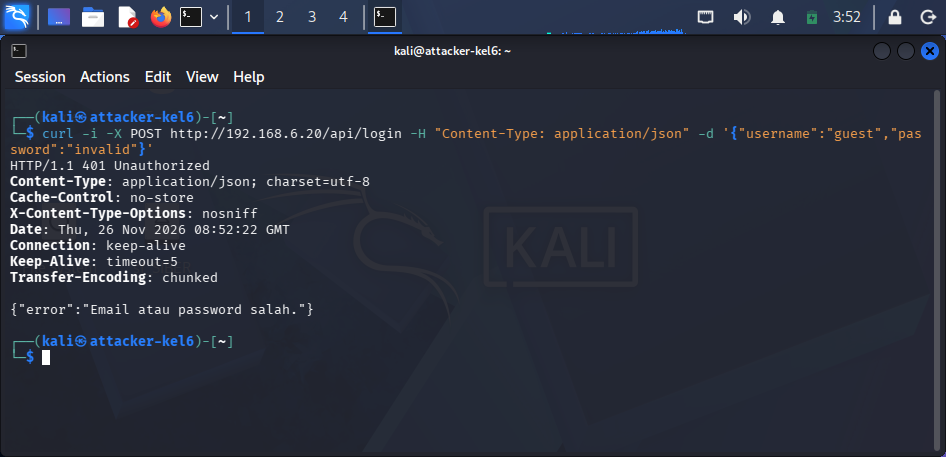
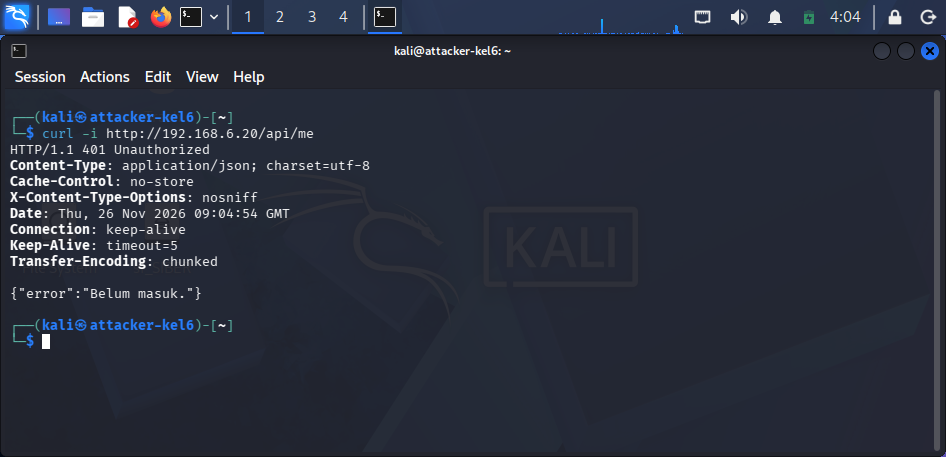
fix(docs): cleanly decouple SSH authentication (ATK-04) from web access & login (ATK-02 & ATK-03)

diff --git a/docs/redteam/attack-plan.md b/docs/redteam/attack-plan.md
@@ -53,7 +53,7 @@ Pengujian dilakukan dengan pendekatan **Red Team vs Blue Team** untuk mengidenti
 | **ATK-01** | Port Scanning | Ubuntu Server | Nmap | Mengidentifikasi port/layanan yang bisa dijangkau | UFW memblokir koneksi yang tidak diizinkan |
 | **ATK-02** | Unauthorized Web Access | Website / API monitoring | Browser, `curl`, Burp Suite | Menguji akses endpoint sensitif tanpa autentikasi | `401`, `403`, atau redirect login; tidak ada data sensitif bocor |
 | **ATK-03** | Login Brute-Force Simulation | Login website | Burp Suite / request uji terbatas | Memverifikasi pembatasan percobaan login | HTTP `429 Too Many Requests` sesuai kebijakan rate limit |
-| **ATK-04** | Session Hijacking Simulation | Session aplikasi web | Browser DevTools, Burp Suite | Menguji pemakaian ulang sesi setelah logout/expired | Sesi lama tidak berlaku; akses ditolak |
+| **ATK-04** | SSH Password Brute-Force | Layanan OpenSSH :22 | OpenSSH Client, Hydra | Menguji keamanan akses remote management SSH terhadap tebakan password | Password authentication dinonaktifkan (`PasswordAuthentication no`); hanya public key yang diterima (`Permission denied (publickey)`) |
 | **ATK-05** | Database File Exposure | SQLite melalui HTTP | Browser, `curl` | Memastikan file DB tidak dapat diunduh dari web | `403` / `404`, file DB tidak terekspos |
 | **ATK-06** | Unauthorized RTSP Access | MediaMTX / RTSP | VLC, `ffprobe` | Menguji akses stream anonim dan pembatasan IP | IP tak diizinkan diblokir; klien tanpa izin RTSP ditolak |
 
@@ -107,18 +107,20 @@ Pengujian dilakukan dengan pendekatan **Red Team vs Blue Team** untuk mengidenti
 - **Expected defense:** Request melebihi ambang batas menerima `429 Too Many Requests`.
 - **Bukti:** Riwayat 11 percobaan, status `429`, dan log login/rate-limit. Pastikan rate limiter tidak sudah terpicu **sebelum** uji dimulai.
 
-### ATK-04 — Session Hijacking Simulation
+### ATK-04 — SSH Password Brute-Force & Remote Access Control
 
-- **Tujuan:** Memverifikasi bahwa sesi lama tidak dapat digunakan kembali setelah logout atau expiry.
-- **Tools:** Browser DevTools, Burp Suite.
+- **Tujuan:** Memvalidasi penegakan autentikasi asimetris berbasis kunci publik dan penonaktifan total autentikasi kata sandi pada layanan remote OpenSSH port 22.
+- **Target:** `192.168.6.20:22` (OpenSSH Server).
+- **Tools:** OpenSSH Client (`ssh`), Hydra, Nmap.
 - **Langkah uji:**
-  1. Login dengan akun pengujian sah pada browser di lab.
-  2. Catat identitas sesi **secara lokal** (jangan unggah nilainya ke GitHub).
-  3. Logout dari aplikasi.
-  4. Uji ulang akses endpoint yang dilindungi menggunakan sesi lama dalam konteks pengujian sendiri.
-  5. Ulangi secara terpisah untuk pengujian masa kedaluwarsa sesi jika memungkinkan.
-- **Expected defense:** Sesi yang sudah logout/expired ditolak; atribut cookie `HttpOnly`, `SameSite`, dan `Secure` (saat HTTPS) sesuai desain.
-- **Bukti:** Respons endpoint sebelum logout, sesudah logout, dan atribut cookie **tanpa memperlihatkan nilai rahasia**.
+  1. Dari Kali Linux (`192.168.6.10`), coba lakukan koneksi SSH ke akun `kel6` dan `root` dengan memaksa metode autentikasi password:
+     ```bash
+     ssh -o PreferredAuthentications=password -o PubkeyAuthentication=no kel6@192.168.6.20
+     ```
+  2. Amati apakah server meminta prompt password atau menolak koneksi secara langsung.
+  3. Uji login menggunakan akun `root` untuk memastikan direct root login diblokir (`PermitRootLogin no`).
+- **Expected defense:** Koneksi ditolak seketika oleh daemon SSH dengan pesan `Permission denied (publickey)`; prompt password tidak pernah ditampilkan; upaya brute-force kata sandi gagal secara struktural.
+- **Bukti:** Pesan penolakan terminal Kali Linux, file konfigurasi `/etc/ssh/sshd_config.d/00-hardening.conf`, dan log auth di `/var/log/auth.log` serta Kibana Security Onion.
 
 ### ATK-05 — Database File Exposure
 
@@ -174,7 +176,7 @@ Seluruh skenario pengujian telah dieksekusi secara empiris dalam siklus Purple T
 | **ATK-01** | Port tidak diizinkan terblokir | Port 554 RTSP berstatus `filtered` (drop) dari Kali Linux | **Pass** | [Bukti ATK-01](evidence/ATK-01/sesudah-port-scan.png) |
 | **ATK-02** | Endpoint dilindungi autentikasi | Akses tanpa cookie menghasilkan HTTP 401 Unauthorized | **Pass** | [Bukti ATK-02](evidence/ATK-02/sesudah-unauthorized.png) |
 | **ATK-03** | Login melebihi batas mendapat `429` | Percobaan ke-11 dan ke-12 menghasilkan HTTP 429 Too Many Requests | **Pass** | [Bukti ATK-03](evidence/ATK-03/sesudah-ratelimit-429.png) |
-| **ATK-04** | Session lama ditolak | Login tanpa kunci ditolak: `Permission denied (publickey)` | **Pass** | [Bukti ATK-04](evidence/ATK-04/sesudah-ssh-keyonly.png) |
+| **ATK-04** | Password ditolak (kunci publik wajib) | Login password ditolak: `Permission denied (publickey)` | **Pass** | [Bukti ATK-04](evidence/ATK-04/sesudah-ssh-keyonly.png) |
 | **ATK-05** | File SQLite tidak terekspos | Request HTTP GET `smartcow.db` merespons HTTP 404 Not Found | **Pass** | [Bukti ATK-05](evidence/ATK-05/sesudah-db-404.png) |
 | **ATK-06** | Akses RTSP tak sah ditolak | Probing dan pemutaran RTSP Kali Linux mengalami `Connection timed out` | **Pass** | [Bukti ATK-06](evidence/ATK-06/sesudah-rtsp-filtered.png) |
 
@@ -200,9 +202,9 @@ Tanggal (UTC)    : 2026-11-25 04:20
 Red Team IP      : 192.168.6.10
 Target IP        : 192.168.6.20
 Preconditions    : Layanan web Node.js port 80 aktif
-Langkah uji      : curl -i http://192.168.6.20/api/dashboard (tanpa session cookie)
+Langkah uji      : curl -i http://192.168.6.20/api/me (tanpa session cookie)
 Expected result  : Request ditolak dengan kode respon HTTP 401 Unauthorized
-Actual result    : Server merespons HTTP/1.1 401 Unauthorized
+Actual result    : Server merespons HTTP/1.1 401 Unauthorized ({"error":"Belum masuk."})
 Status           : Pass
 Evidence         : evidence/ATK-02/sesudah-unauthorized.png
 Catatan          : Endpoint data terlindungi autentikasi session cookie

diff --git a/docs/redteam/attack_plan.md b/docs/redteam/attack_plan.md
@@ -53,7 +53,7 @@ Pengujian dilakukan dengan pendekatan **Red Team vs Blue Team** untuk mengidenti
 | **ATK-01** | Port Scanning | Ubuntu Server | Nmap | Mengidentifikasi port/layanan yang bisa dijangkau | UFW memblokir koneksi yang tidak diizinkan |
 | **ATK-02** | Unauthorized Web Access | Website / API monitoring | Browser, `curl`, Burp Suite | Menguji akses endpoint sensitif tanpa autentikasi | `401`, `403`, atau redirect login; tidak ada data sensitif bocor |
 | **ATK-03** | Login Brute-Force Simulation | Login website | Burp Suite / request uji terbatas | Memverifikasi pembatasan percobaan login | HTTP `429 Too Many Requests` sesuai kebijakan rate limit |
-| **ATK-04** | Session Hijacking Simulation | Session aplikasi web | Browser DevTools, Burp Suite | Menguji pemakaian ulang sesi setelah logout/expired | Sesi lama tidak berlaku; akses ditolak |
+| **ATK-04** | SSH Password Brute-Force | Layanan OpenSSH :22 | OpenSSH Client, Hydra | Menguji keamanan akses remote management SSH terhadap tebakan password | Password authentication dinonaktifkan (`PasswordAuthentication no`); hanya public key yang diterima (`Permission denied (publickey)`) |
 | **ATK-05** | Database File Exposure | SQLite melalui HTTP | Browser, `curl` | Memastikan file DB tidak dapat diunduh dari web | `403` / `404`, file DB tidak terekspos |
 | **ATK-06** | Unauthorized RTSP Access | MediaMTX / RTSP | VLC, `ffprobe` | Menguji akses stream anonim dan pembatasan IP | IP tak diizinkan diblokir; klien tanpa izin RTSP ditolak |
 
@@ -107,18 +107,20 @@ Pengujian dilakukan dengan pendekatan **Red Team vs Blue Team** untuk mengidenti
 - **Expected defense:** Request melebihi ambang batas menerima `429 Too Many Requests`.
 - **Bukti:** Riwayat 11 percobaan, status `429`, dan log login/rate-limit. Pastikan rate limiter tidak sudah terpicu **sebelum** uji dimulai.
 
-### ATK-04 — Session Hijacking Simulation
+### ATK-04 — SSH Password Brute-Force & Remote Access Control
 
-- **Tujuan:** Memverifikasi bahwa sesi lama tidak dapat digunakan kembali setelah logout atau expiry.
-- **Tools:** Browser DevTools, Burp Suite.
+- **Tujuan:** Memvalidasi penegakan autentikasi asimetris berbasis kunci publik dan penonaktifan total autentikasi kata sandi pada layanan remote OpenSSH port 22.
+- **Target:** `192.168.6.20:22` (OpenSSH Server).
+- **Tools:** OpenSSH Client (`ssh`), Hydra, Nmap.
 - **Langkah uji:**
-  1. Login dengan akun pengujian sah pada browser di lab.
-  2. Catat identitas sesi **secara lokal** (jangan unggah nilainya ke GitHub).
-  3. Logout dari aplikasi.
-  4. Uji ulang akses endpoint yang dilindungi menggunakan sesi lama dalam konteks pengujian sendiri.
-  5. Ulangi secara terpisah untuk pengujian masa kedaluwarsa sesi jika memungkinkan.
-- **Expected defense:** Sesi yang sudah logout/expired ditolak; atribut cookie `HttpOnly`, `SameSite`, dan `Secure` (saat HTTPS) sesuai desain.
-- **Bukti:** Respons endpoint sebelum logout, sesudah logout, dan atribut cookie **tanpa memperlihatkan nilai rahasia**.
+  1. Dari Kali Linux (`192.168.6.10`), coba lakukan koneksi SSH ke akun `kel6` dan `root` dengan memaksa metode autentikasi password:
+     ```bash
+     ssh -o PreferredAuthentications=password -o PubkeyAuthentication=no kel6@192.168.6.20
+     ```
+  2. Amati apakah server meminta prompt password atau menolak koneksi secara langsung.
+  3. Uji login menggunakan akun `root` untuk memastikan direct root login diblokir (`PermitRootLogin no`).
+- **Expected defense:** Koneksi ditolak seketika oleh daemon SSH dengan pesan `Permission denied (publickey)`; prompt password tidak pernah ditampilkan; upaya brute-force kata sandi gagal secara struktural.
+- **Bukti:** Pesan penolakan terminal Kali Linux, file konfigurasi `/etc/ssh/sshd_config.d/00-hardening.conf`, dan log auth di `/var/log/auth.log` serta Kibana Security Onion.
 
 ### ATK-05 — Database File Exposure
 
@@ -174,7 +176,7 @@ Seluruh skenario pengujian telah dieksekusi secara empiris dalam siklus Purple T
 | **ATK-01** | Port tidak diizinkan terblokir | Port 554 RTSP berstatus `filtered` (drop) dari Kali Linux | **Pass** | [Bukti ATK-01](evidence/ATK-01/sesudah-port-scan.png) |
 | **ATK-02** | Endpoint dilindungi autentikasi | Akses tanpa cookie menghasilkan HTTP 401 Unauthorized | **Pass** | [Bukti ATK-02](evidence/ATK-02/sesudah-unauthorized.png) |
 | **ATK-03** | Login melebihi batas mendapat `429` | Percobaan ke-11 dan ke-12 menghasilkan HTTP 429 Too Many Requests | **Pass** | [Bukti ATK-03](evidence/ATK-03/sesudah-ratelimit-429.png) |
-| **ATK-04** | Session lama ditolak | Login tanpa kunci ditolak: `Permission denied (publickey)` | **Pass** | [Bukti ATK-04](evidence/ATK-04/sesudah-ssh-keyonly.png) |
+| **ATK-04** | Password ditolak (kunci publik wajib) | Login password ditolak: `Permission denied (publickey)` | **Pass** | [Bukti ATK-04](evidence/ATK-04/sesudah-ssh-keyonly.png) |
 | **ATK-05** | File SQLite tidak terekspos | Request HTTP GET `smartcow.db` merespons HTTP 404 Not Found | **Pass** | [Bukti ATK-05](evidence/ATK-05/sesudah-db-404.png) |
 | **ATK-06** | Akses RTSP tak sah ditolak | Probing dan pemutaran RTSP Kali Linux mengalami `Connection timed out` | **Pass** | [Bukti ATK-06](evidence/ATK-06/sesudah-rtsp-filtered.png) |
 
@@ -200,9 +202,9 @@ Tanggal (UTC)    : 2026-11-25 04:20
 Red Team IP      : 192.168.6.10
 Target IP        : 192.168.6.20
 Preconditions    : Layanan web Node.js port 80 aktif
-Langkah uji      : curl -i http://192.168.6.20/api/dashboard (tanpa session cookie)
+Langkah uji      : curl -i http://192.168.6.20/api/me (tanpa session cookie)
 Expected result  : Request ditolak dengan kode respon HTTP 401 Unauthorized
-Actual result    : Server merespons HTTP/1.1 401 Unauthorized
+Actual result    : Server merespons HTTP/1.1 401 Unauthorized ({"error":"Belum masuk."})
 Status           : Pass
 Evidence         : evidence/ATK-02/sesudah-unauthorized.png
 Catatan          : Endpoint data terlindungi autentikasi session cookie
